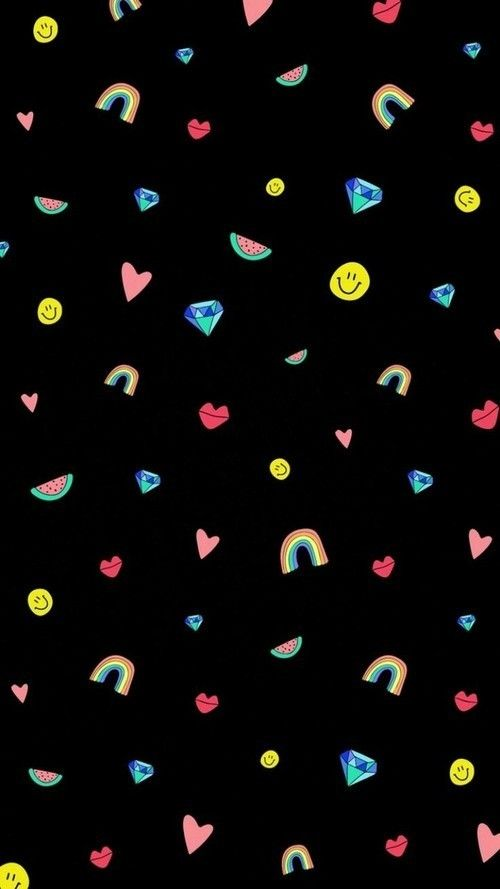
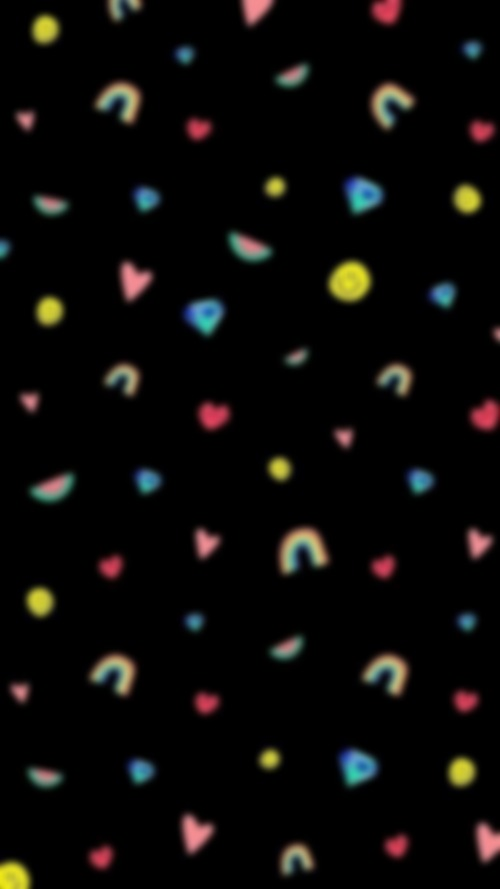
new things

diff --git a/src/hooks/home/card-my-top/card-my-top.jsx b/src/hooks/home/card-my-top/card-my-top.jsx
@@ -14,6 +14,8 @@ import glitch from '../../../assets/my-tops/glitch-background.jpg'
 import gray from '../../../assets/my-tops/gray-background.jpg'
 import xmas from '../../../assets/my-tops/xmas-background.jpg'
 import Loading from '../../loading/loading'
+import { getUserContext } from '../../../context/user-context'
+import Toast from '../../toast/toast'
 
 const CardMyTop = (props) => {
   const icon = {
@@ -28,6 +30,7 @@ const CardMyTop = (props) => {
   const [currentIndexBackground, setCurrentIndexBackground] = useState(0)
   const [backgroundNext, setbackgroundNext] = useState(true)
   const [backgroundPrev, setbackgroundPrev] = useState(true)
+  const [notify, setNotify] = useState(false)
 
   function getRandomFont() {
     return fonts[Math.floor(Math.random()*fonts.length)];
@@ -62,46 +65,159 @@ const CardMyTop = (props) => {
     })
   }, 4000);
 
-  function draw() {
+  function drawImageOnCanvas(src, width, height, radius = 10) {
+    const canvas = document.getElementById('idCanvas');
+    const ctx = canvas.getContext('2d');
+    const imageObj = new Image();
+
+    function roundedImage(x,y,width,height,radius) {
+      ctx.beginPath();
+      ctx.moveTo(x + radius, y);
+      ctx.lineTo(x + width - radius, y);
+      ctx.quadraticCurveTo(x + width, y, x + width, y + radius);
+      ctx.lineTo(x + width, y + height - radius);
+      ctx.quadraticCurveTo(x + width, y + height, x + width - radius, y + height);
+      ctx.lineTo(x + radius, y + height);
+      ctx.quadraticCurveTo(x, y + height, x, y + height - radius);
+      ctx.lineTo(x, y + radius);
+      ctx.quadraticCurveTo(x, y, x + radius, y);
+      ctx.closePath();
+    }
+
+    imageObj.onload = () => {
+      ctx.save();
+      roundedImage(width, height, imageObj.width/2, imageObj.height/2, radius);
+      ctx.clip();
+      ctx.drawImage(imageObj, width, height, imageObj.width/2, imageObj.height/2);
+      ctx.restore();
+    }
+
+    imageObj.setAttribute('crossOrigin', 'anonymous');
+    imageObj.src = src;
+
+    return imageObj
+  }
+
+  function drawImageOnCanvasProfile(src, width, height, radius = 50) {
+    const canvas = document.getElementById('idCanvas');
+    const ctx = canvas.getContext('2d');
+    const imageObj = new Image();
+
+    function roundedImageProfile(x,y,width,height,radius) {
+      ctx.beginPath();
+      ctx.moveTo(x + radius, y);
+      ctx.lineTo(x + width - radius, y);
+      ctx.quadraticCurveTo(x + width, y, x + width, y + radius);
+      ctx.lineTo(x + width, y + height - radius);
+      ctx.quadraticCurveTo(x + width, y + height, x + width - radius, y + height);
+      ctx.lineTo(x + radius, y + height);
+      ctx.quadraticCurveTo(x, y + height, x, y + height - radius);
+      ctx.lineTo(x, y + radius);
+      ctx.quadraticCurveTo(x, y, x + radius, y);
+      ctx.closePath();
+    }
+
+    imageObj.onload = () => {
+      let _width = 70
+      let _height = 70
+      ctx.save();
+      roundedImageProfile(width, height, _width, _height, radius);
+      ctx.clip();
+      ctx.drawImage(imageObj, width, height, _width, _height);
+      ctx.restore();
+    }
+
+    imageObj.setAttribute('crossOrigin', 'anonymous');
+    imageObj.src = src;
+
+    return imageObj
+  }
+
+  function formatFilterSelected() {
+    if (props.filter === 'short_term') {
+      return `Last month's`
+    } else if (props.filter === 'medium_term') {
+      return `Last 6 month's`
+    } else {
+      return 'All the time'
+    }
+  }
+
+  function draw(type) {
     const canvas = document.getElementById('idCanvas');
     const context = canvas.getContext('2d');
     const imageObj = new Image();
 
+    const centerVertically = 250;
+
     imageObj.onload = () => {
       context.drawImage(imageObj, 0, 0);
-      // context.textAlign = "center";
-      // context.textBaseline = "middle"; 
-
+      context.textAlign = "center";
+      context.textBaseline = "middle"; 
 
       //title Datafy
       context.font = "70px Dazzle";
       context.fillStyle = "whitesmoke";
-      context.fillText("DataFy", 150, 100);
+      context.fillText("DataFy", centerVertically, 40);
 
+      //userData
+      context.font = "20px Dazzle";
+      context.fillStyle = "whitesmoke";
+      context.fillText('of', centerVertically, 90);
+
+      context.font = "20px Dazzle";
+      context.fillStyle = "whitesmoke";
+      context.fillText(getUserContext().userDisplayName, centerVertically, 210);
+
+      let userPhotoProfile = drawImageOnCanvasProfile(getUserContext().userProfileImage, 215, 110, 30)
+      context.drawImage(userPhotoProfile, 500, 200)
+      console.log(userPhotoProfile)
+      console.log(canvas.toDataURL())
 
       //title Card type
-      context.font = "40px Dazzle";
-      context.fillText("My Top Artist", 130, 200);
+      context.font = "45px Dazzle";
+      context.fillText(type === 'artist' ? 'My Top Artist' : 'My Top Song', centerVertically, 270);
 
-      //title artist name
+      // title range filter 
+      context.font = "20px Dazzle";
+      context.fillText(`(${formatFilterSelected()})`, centerVertically, props.type === 'artist' ? 700 : 770);
+    
+      //title artist/song name
       context.font = "40px Dazzle";
-      context.fillText(props.artistName, 150, 300);
+      context.fillText(type === 'artist' ? props.artistName : props.songName, centerVertically, 650);
+
+      //text by band
+      if (props.type === 'song') {
+        context.font = "20px Dazzle";
+        context.fillText('By', centerVertically, 685);
+
+        context.font = "20px Dazzle";
+        context.fillText(props.songArtist, centerVertically, 720);
+      }
 
       //insert cover
+      let img = props.type === 'artist' ? drawImageOnCanvas(props.artistImage, 100, 300) : drawImageOnCanvas(props.songImage, 100, 300)
+      context.drawImage(img, 500, 500)
+
+      // text made by
+      context.font = "20px Dazzle";
+      context.fillText(`visit ${import.meta.env.VITE_AD_LINK}`, centerVertically, 850);
 
 
       //download
-      const canvas = document.getElementById('idCanvas');
+      // const canvas = document.getElementById('idCanvas');
       const dataURL = canvas.toDataURL();
 
-      function download(dataurl, filename) {
-        const link = document.createElement("a");
-        link.href = dataurl;
-        link.download = filename;
-        link.click();
-      }
+      // console.log(dataURL)
+
+      // function download(dataurl, filename) {
+      //   const link = document.createElement("a");
+      //   link.href = dataurl;
+      //   link.download = filename;
+      //   link.click();
+      // }
       
-      download(dataURL, "datafy.png");
+      // download(dataURL, "datafy.png");
     }
 
     imageObj.setAttribute('crossOrigin', 'anonymous');
@@ -109,7 +225,11 @@ const CardMyTop = (props) => {
 }
 
   function generate() {
-    draw()
+    if (!props.filter) {
+      setNotify(true)
+      return
+    }
+    draw(props.type)
   }
 
   return (
@@ -161,8 +281,14 @@ const CardMyTop = (props) => {
       <canvas id="idCanvas" width="500" height="899" style={{
         display: 'none',
         width: '500px',
-        height: '500px'}}>
-      </canvas>  
+        height: '899px'}}>
+      </canvas> 
+      <Toast 
+          show={notify}
+          setNotify={setNotify}
+          type={'warn'}
+          title={'Ops'}
+          message={'Select a period'} /> 
     </div>
   )
 }

diff --git a/src/context/user-context.js b/src/context/user-context.js
@@ -1,5 +1,5 @@
-  
-function setUserContext({accessToken, tokenType, expiresIn, market}) {
+
+function setUserContext({ accessToken, tokenType, expiresIn, market }) {
   localStorage.setItem('accessToken', accessToken)
   localStorage.setItem('tokenType', tokenType)
   localStorage.setItem('expiresIn', expiresIn)
@@ -10,12 +10,22 @@ function setMarketContext(market) {
   localStorage.setItem('market', market)
 }
 
+function setUserDisplayName(userDisplayName) {
+  localStorage.setItem('userDisplayName', userDisplayName)
+}
+
+function setUserProfileImage(userProfileImage) {
+  localStorage.setItem('userProfileImage', userProfileImage)
+}
+
 function getUserContext() {
   return {
     accessToken: localStorage.getItem('accessToken'),
     tokenType: localStorage.getItem('tokenType'),
     expiresIn: localStorage.getItem('expiresIn'),
     market: localStorage.getItem('market'),
+    userDisplayName: localStorage.getItem('userDisplayName'),
+    userProfileImage: localStorage.getItem('userProfileImage')
   }
 }
 
@@ -28,4 +38,4 @@ function isUserLogged() {
 }
 
 
-export { isUserLogged, clearUserContext, getUserContext, setUserContext, setMarketContext }
+export { isUserLogged, clearUserContext, getUserContext, setUserContext, setMarketContext, setUserDisplayName, setUserProfileImage }

diff --git a/src/hooks/spotify/spotify-login.jsx b/src/hooks/spotify/spotify-login.jsx
@@ -1,4 +1,4 @@
-import { setUserContext, clearUserContext, isUserLogged , setMarketContext } from '../../context/user-context'
+import { setUserContext, clearUserContext, isUserLogged , setMarketContext, setUserProfileImage, setUserDisplayName } from '../../context/user-context'
 import React, { useEffect } from "react";
 import { useNavigate } from 'react-router-dom'
 import { getMe } from '../../client/spotify-client';
@@ -47,7 +47,9 @@ const SpotifyLogin = (props) => {
 
   const getProfile = () => {
     getMe().then(res => {
-      setMarketContext(res.data.country)
+      setMarketContext(res?.data?.country)
+      setUserProfileImage(res?.data?.images[0].url)
+      setUserDisplayName(res?.data?.display_name)
     })
   }
 

diff --git a/src/hooks/home/home.jsx b/src/hooks/home/home.jsx
@@ -63,7 +63,8 @@ const Home = () => {
           type={'artist'} 
           artistName={topArtist?.name}
           artistImage={topArtist?.images[0].url}
-          loading={loading}/>
+          loading={loading}
+          filter={filter}/>
 
         <CardMyTop 
           title={'My Top Song'} 
@@ -71,7 +72,8 @@ const Home = () => {
           songName={topSong?.name} 
           songArtist={topSong?.artists[0].name}
           songImage={topSong?.album.images[0].url}
-          loading={loading}/>
+          loading={loading}
+          filter={filter}/>
         
         {/* <Toast 
           show={notify}

diff --git a/src/hooks/home/card-my-top/card-my-top.css b/src/hooks/home/card-my-top/card-my-top.css
@@ -112,7 +112,7 @@ button:disabled {
   position: absolute;
   margin-top: -33px;
   border-radius: 10px;
-  box-shadow: 5px -5px 2px -1px whitesmoke;
+  box-shadow: 0px 0px 27px 8px #008f5996;
 }
 
 .artist-text {

diff --git a/readme.md b/readme.md
@@ -20,6 +20,10 @@ npm config set registry https://registry.npmjs.org/
 ## resize backgrounds width 500 x height 899
 https://www.simpleimageresizer.com/upload
 
+## blur images
+
+https://pinetools.com/blur-image
+
 datafy
 
 https://developer.spotify.com/documentation/general/design-and-branding/
